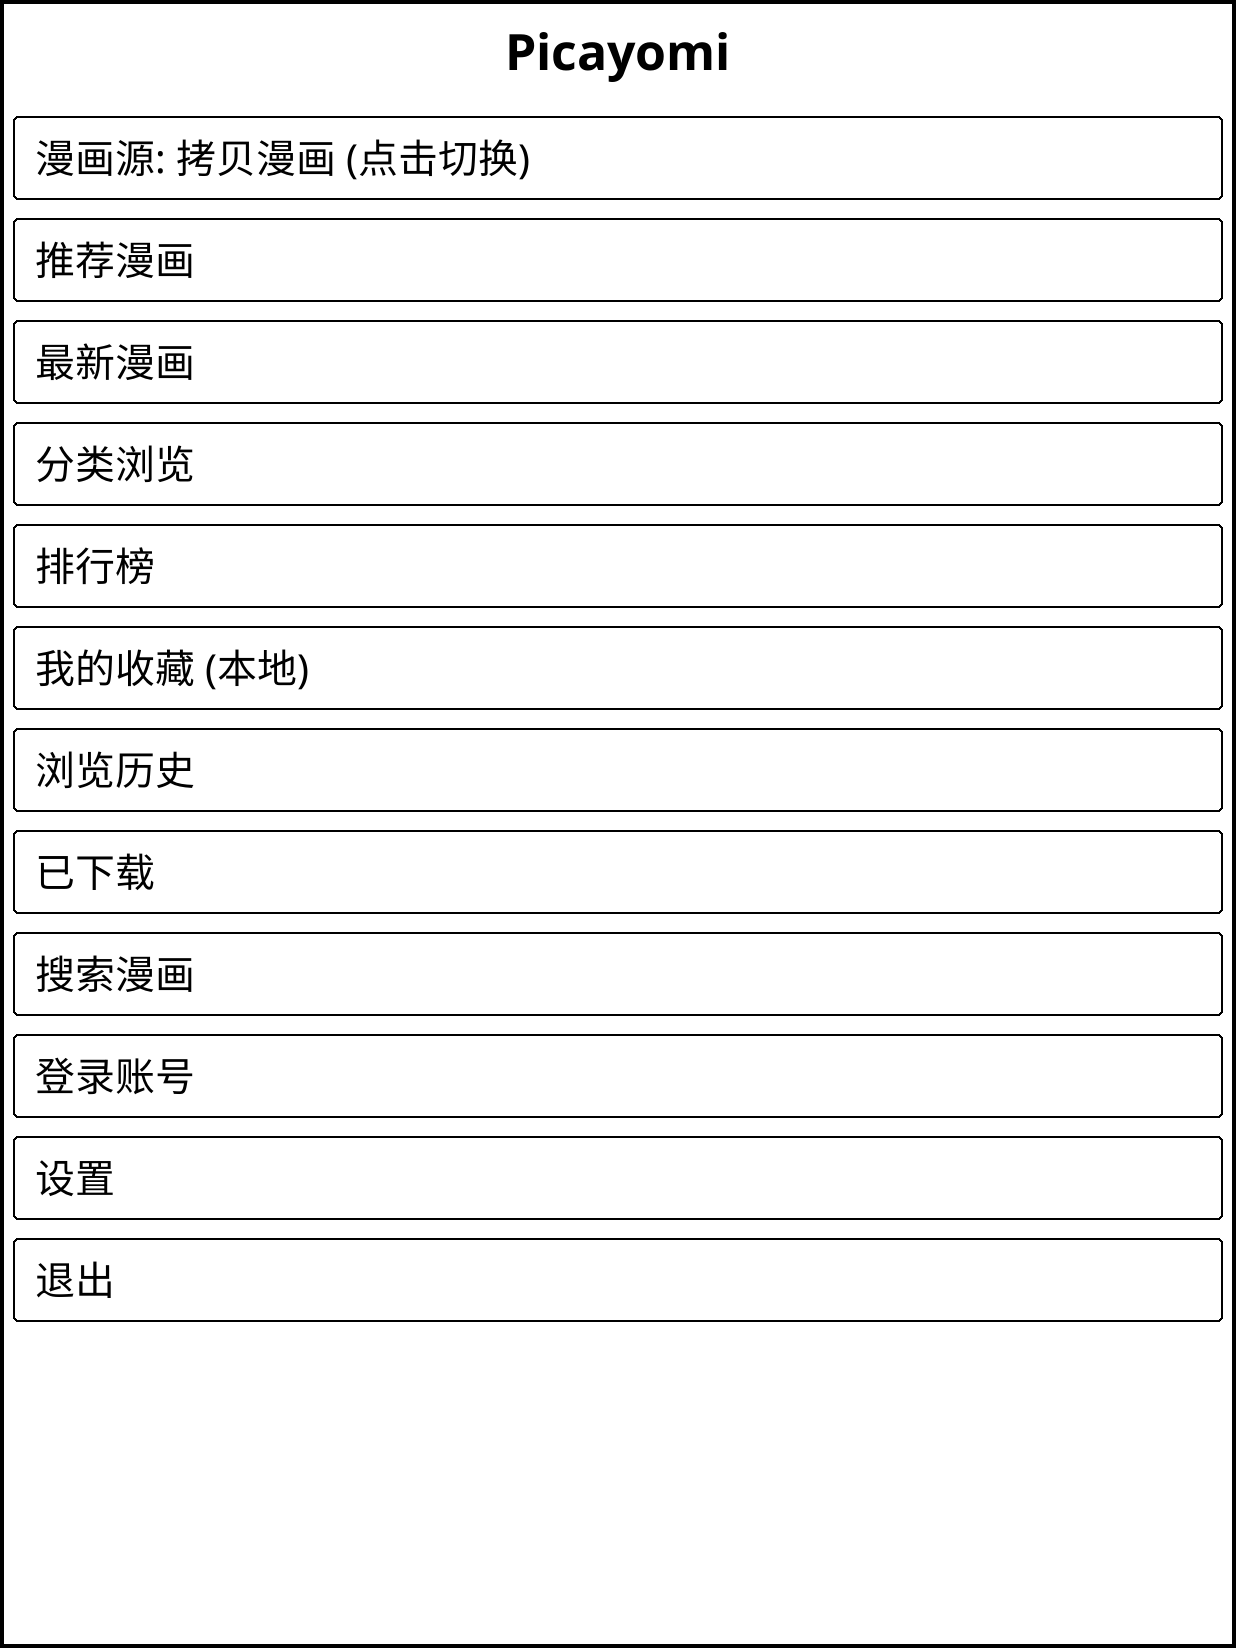
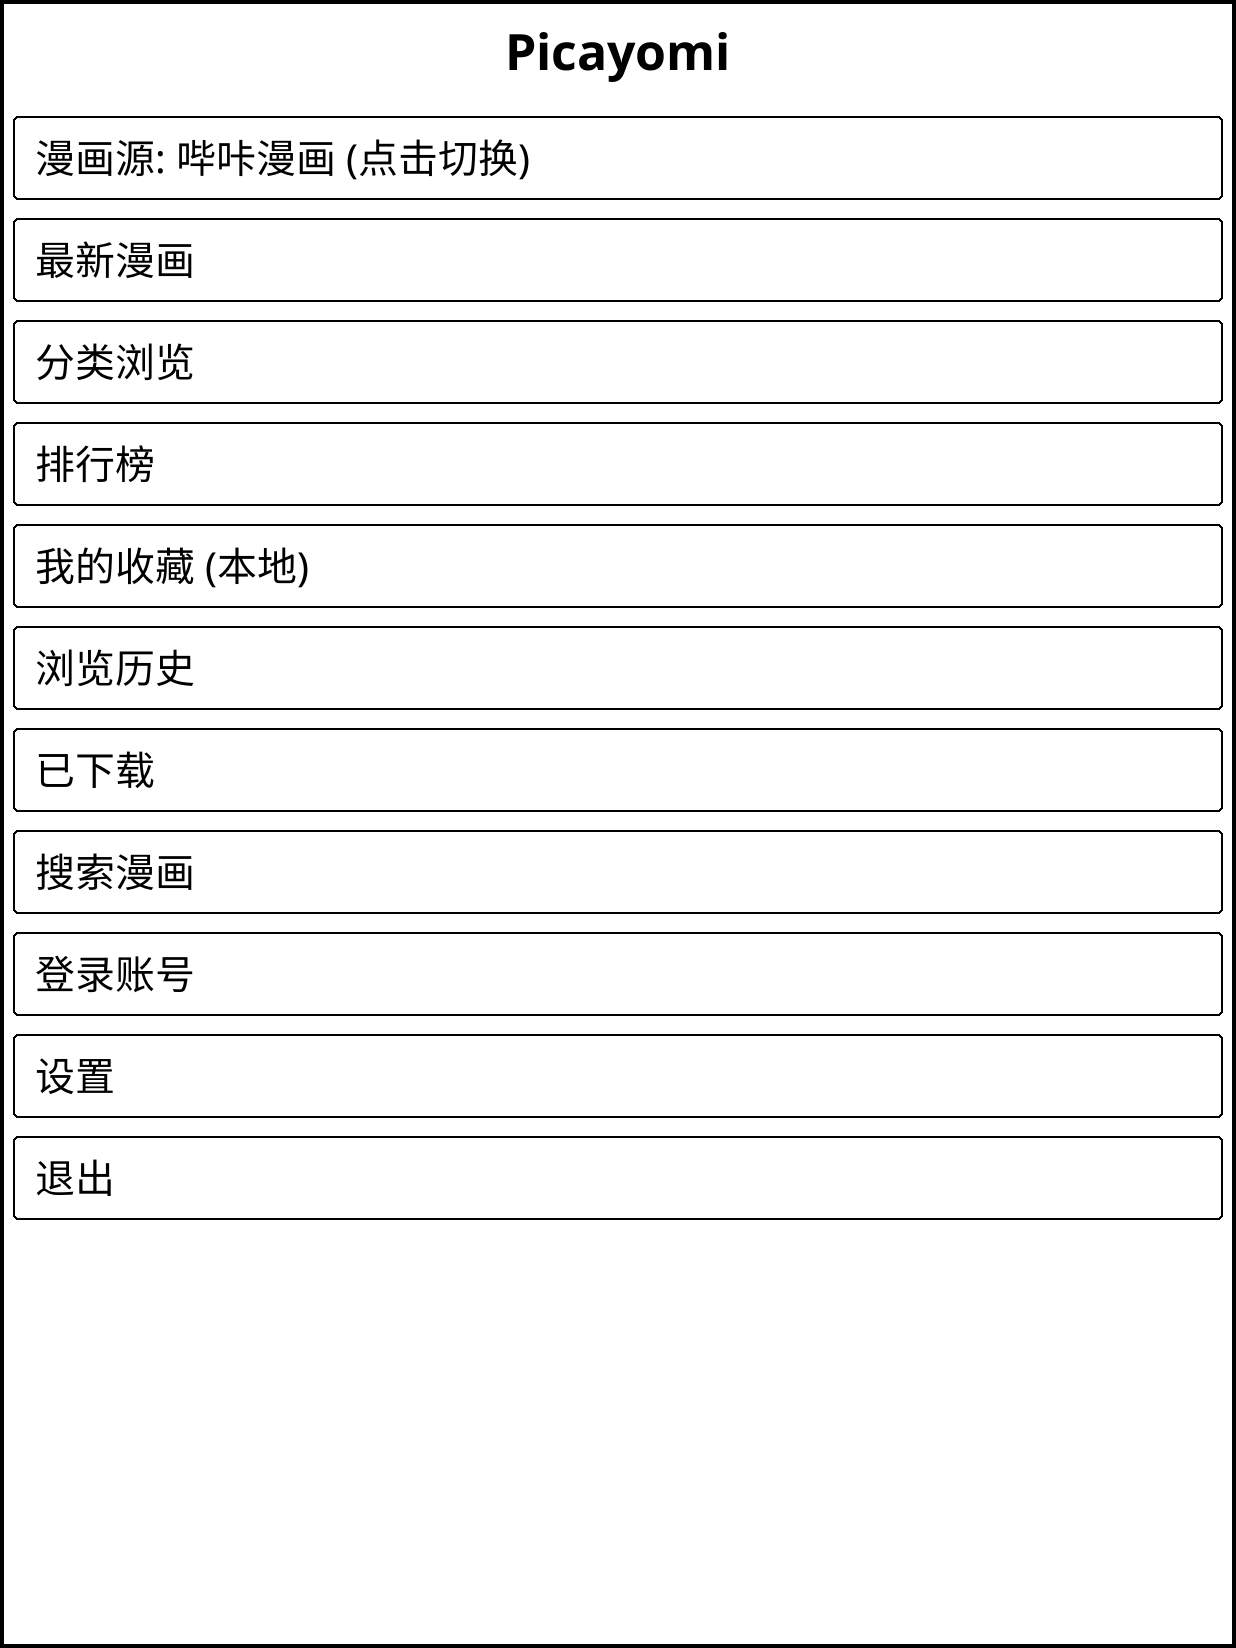
更新插件发布快照

Changed region(s): [[0.0307, 0.1238, 0.246, 0.8046], [0.1537, 0.0619, 0.2152, 0.1238]]

diff --git a/README.md b/README.md
@@ -4,7 +4,7 @@
 
 ## 页面预览
 
-以下为 1.0.0 模拟器页面预览。
+以下为页面预览。
 
 | 主页 | 设置 | 漫画列表 | 分类 | 漫画详情 |
 |---|---|---|---|---|
